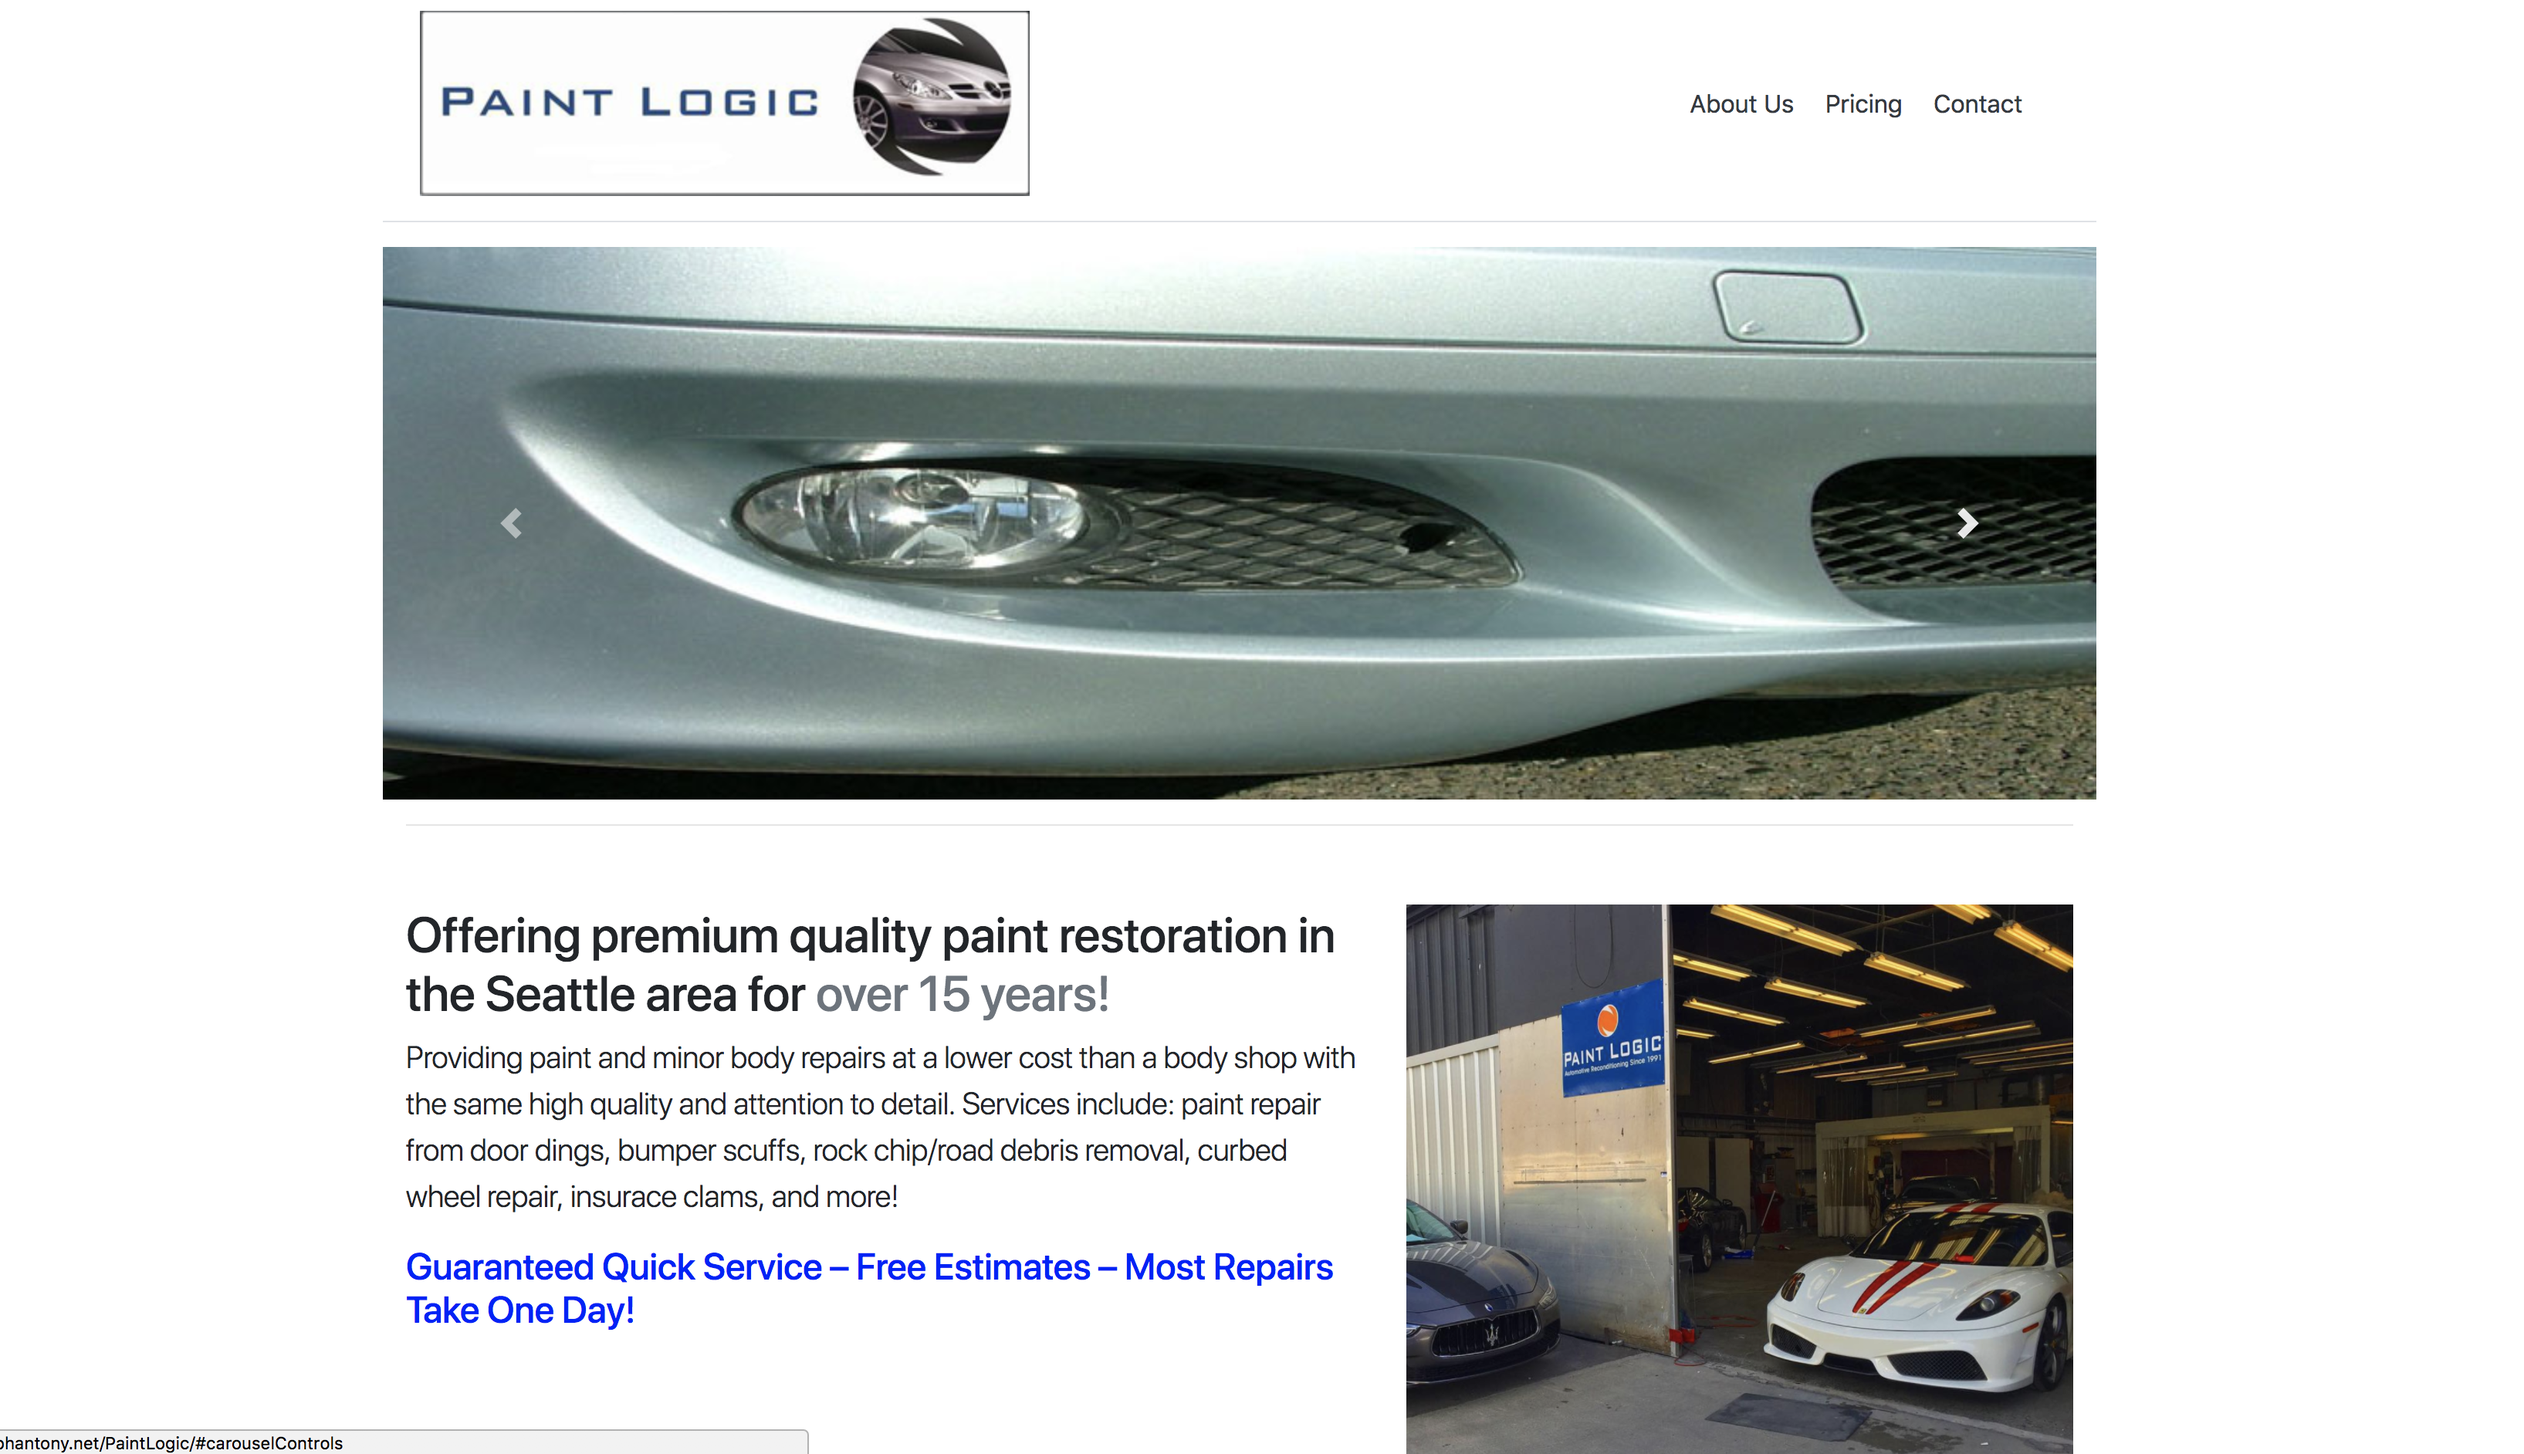
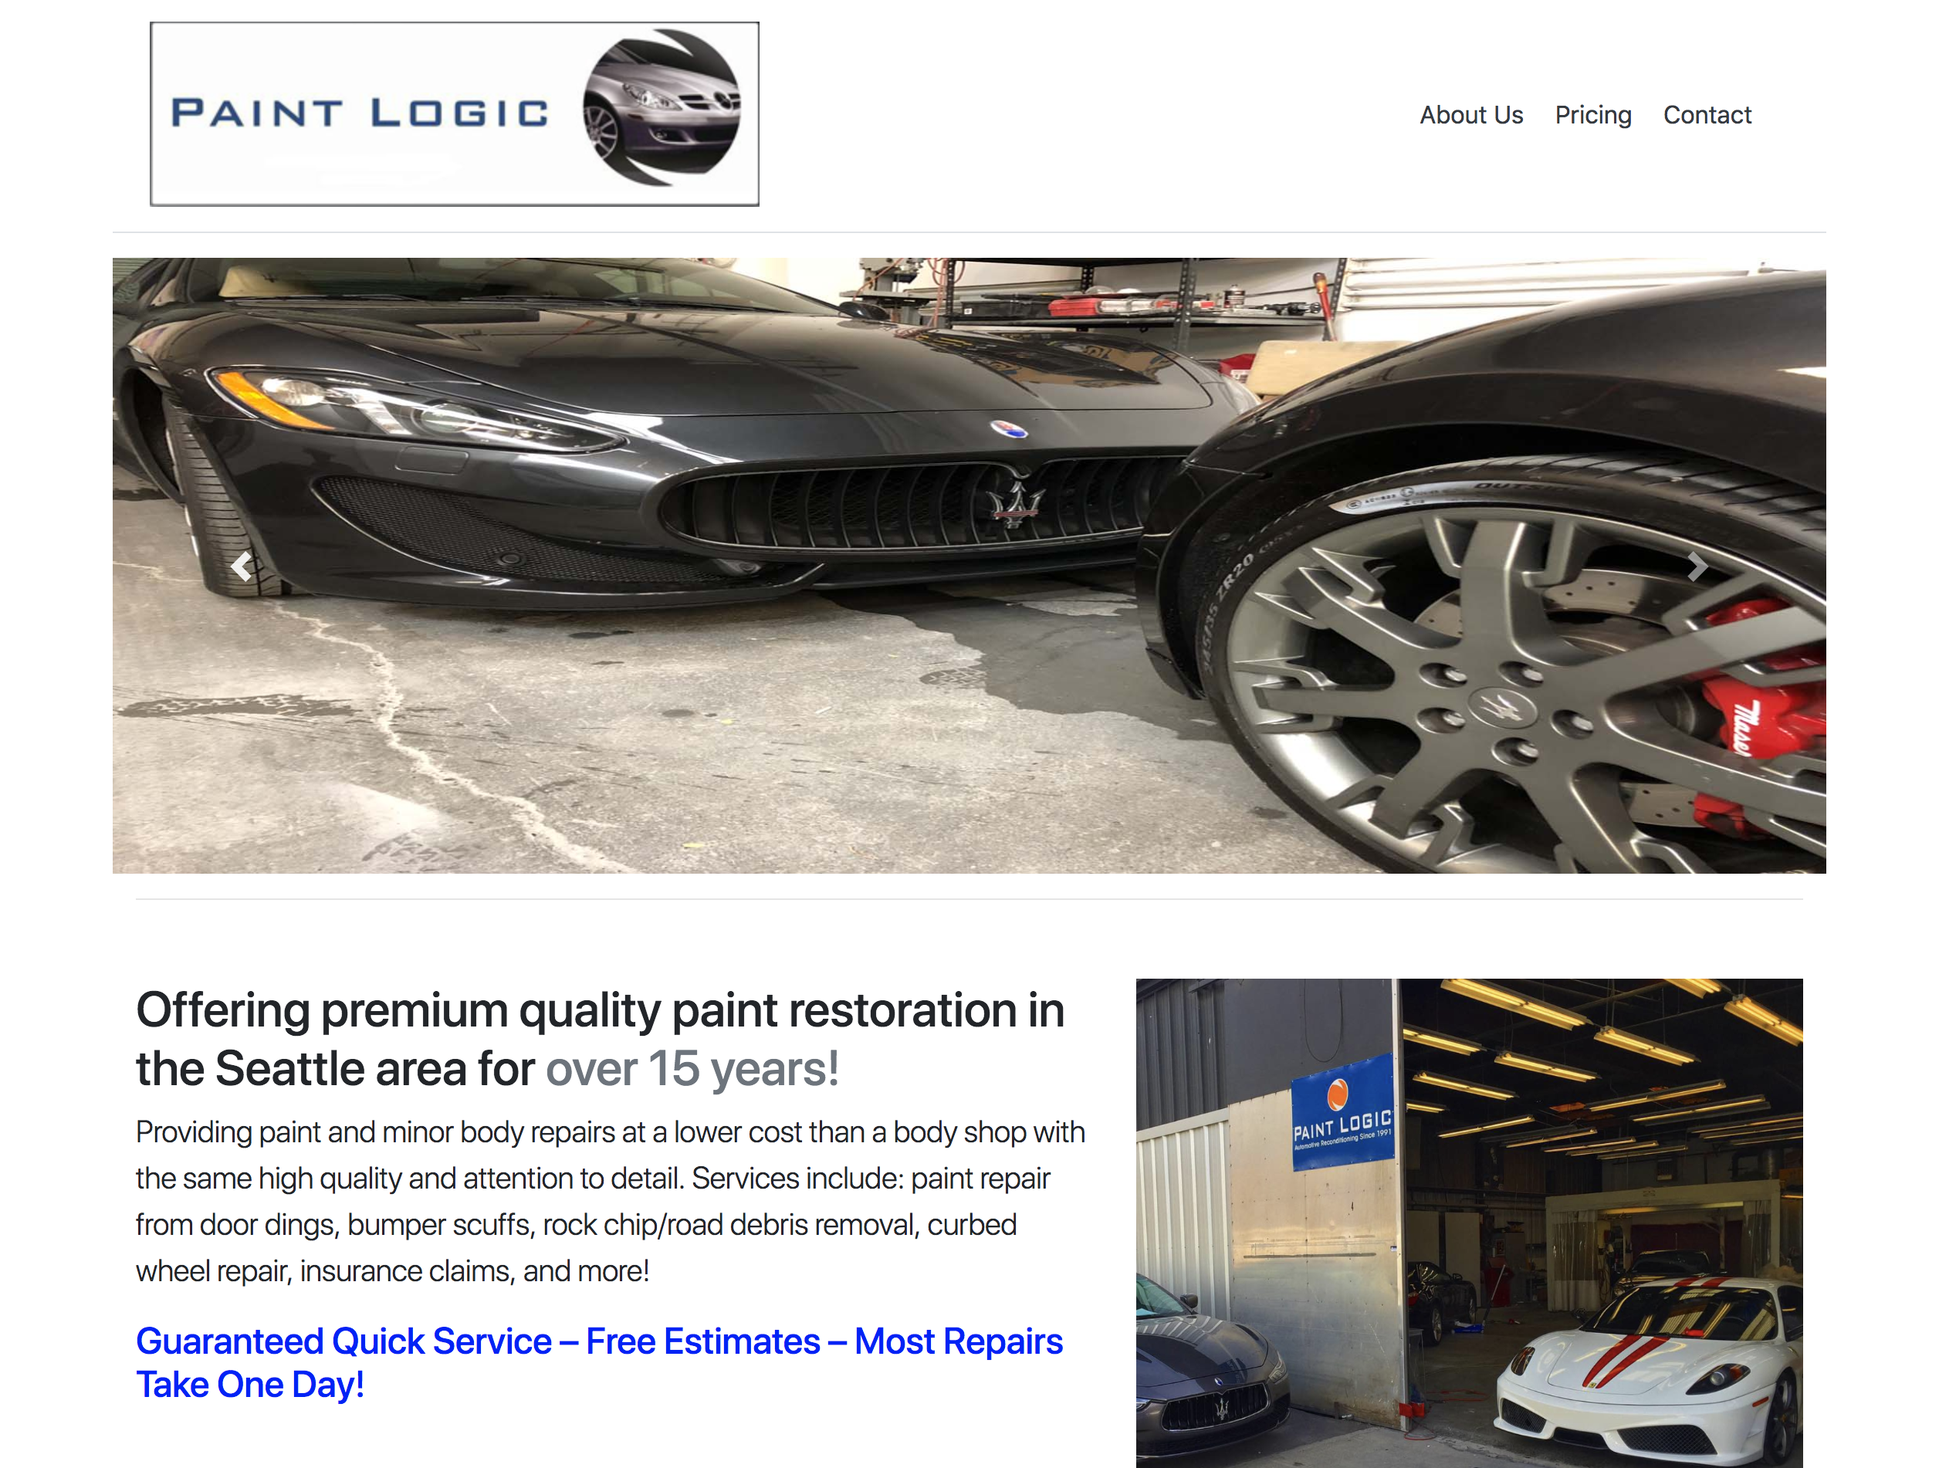
updated Paint Logic project

diff --git a/index.html b/index.html
@@ -73,13 +73,12 @@
 				</div>
 				<div id='paint' class="horizontal-scrolling">
 					<div class='card'>
-						<a href="http://phantony.net/PaintLogic" target="blank"><img class'project_img' src="./images/paintlogic.png"></a>
+						<a href="http://paintlogicseattle.com" target="blank"><img class'project_img' src="./images/paintlogic.png"></a>
 							<div class="project-container">
 								<h3>Paint Logic</h3>
-								<p class='project-note'>Redesign of Paint Logic's company website to be a responsive single page site. Currently in the staging process to be deployed.</p>
+								<p class='project-note'>Redesign of Paint Logic's company website to be a single page site. The redesign also allows the site to be responsive and mobile friendly.</p>
 								<p class="project-note">Built With: HTML, CSS, JavaScript, and Bootstrap</p>
-								<a href="https://github.com/rallysport206/PaintLogic" target="blank"><i class="icon-project fab fa-github-square"></i></a>
-								<a href="http://phantony.net/PaintLogic" target="blank"><i class="icon-project fas fa-laptop"></i></a>
+								<a href="http://paintlogicseattle.com" target="blank"><i class="icon-project fas fa-laptop"></i></a>
 							</div>
 					</div>
 				</div>
